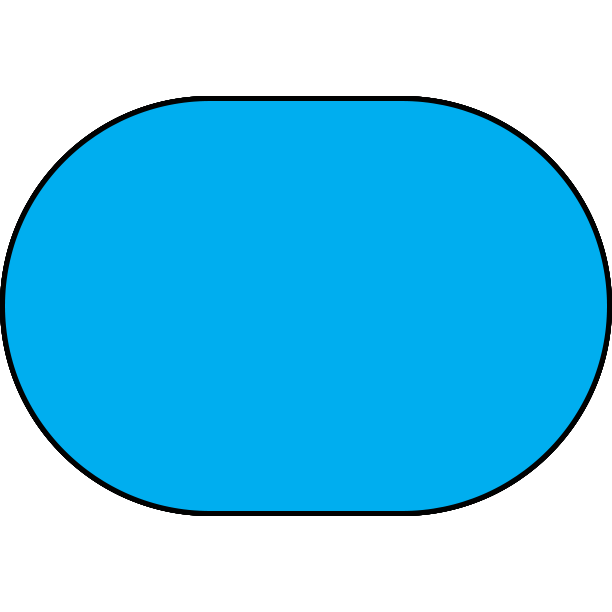
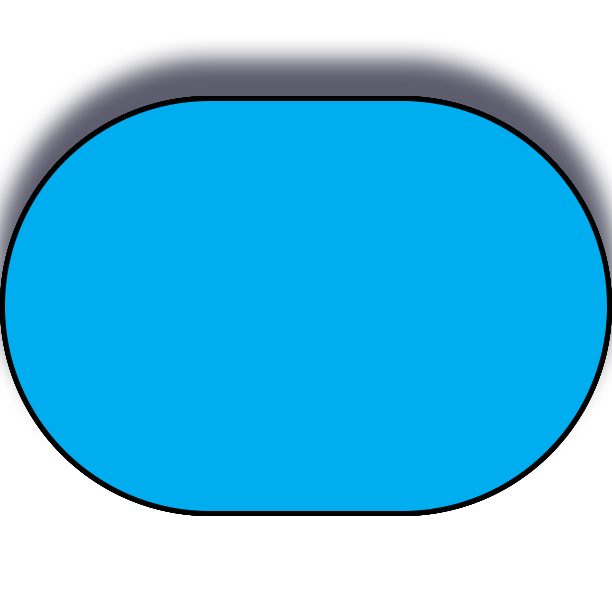
adds drop shadow to objects, updates instructions.js to accomodate colorful objects, and creates link.

diff --git a/src/js/core/instructions.js b/src/js/core/instructions.js
@@ -69,7 +69,7 @@ function loadInstrContent() {
         /* ind0 */ '<p>Hello! Thank you for participating in our study. Please take a moment to adjust your seating so that you can comfortably watch the monitor and use the keyboard. Feel free to dim the lights as well.</p><p>Close the door or do whatever is necessary to <b>minimize disturbance during the experiment</b>. Please also take a moment to silence your phone so that you are not interrupted by any messages mid-experiment. Do <i>not</i> switch to any other tabs or windows until you are complete.</p>',
         /* ind1 */ `<p>In this experiment, you will see an image of two people wearing <b>striped shirts</b> flash on your screen.<p>Your task is to determine if the two people are wearing exactly the same shirt!</p><p> Below is an example of <b> shirts that are <i>not</i> identical</b>. Although the angle of the stripes are similar, they are not the same.</p><div style='text-align: center'><img src="${stimFolder}person_example_different.png" style="width: 300px;"/></div>`,
         /* ind2 */ `<p>Below is an example of <b> shirts that are identical</b>. Note that the angle of the stripes are <i>exactly</i> the same.</p><div style='text-align: center'><img src="${stimFolder}person_example_same.png" style="width: 300px;"/></div>`,
-        /* ind3 */ `<p>To make it more difficult, we've placed the two people in striped shirts in a room full of other people with different color shirts. People in the room may appear at different times.</p><div></div><p>For this experiment, though, <b>you should only care about the people with yellow striped shirts.</b></p><p>When you think the two people are wearing the <i>same</i> shirt, press the <b>f key</b>. When you think the two people are <i>not</i> wearing the same shirt, press the <b>j key.</b></p>`,
+        /* ind3 */ `<p>To make it more difficult, we've placed the two people in striped shirts in a room full of other people with different color shirts and different colorful things. People in the room may appear at different times.</p><div></div><p>For this experiment, though, <b>you should only care about the people with yellow striped shirts.</b></p><p>When you think the two people are wearing the <i>same</i> shirt, press the <b>f key</b>. When you think the two people are <i>not</i> wearing the same shirt, press the <b>j key.</b></p>`,
         /* ind4 */ `<p>Sometimes, you may be unsure of your answer. This is okay, since the task is designed to be tricky! In times like this, just give it your <b>best guess</b>, as we are interested in your <i>gut intuition</i>.</p><p>Please do your very best to remain as focused and attentive as possible, even at the end of the experiment. We know it is very difficult to stay focused for so long, especially when you are doing the same thing over and over. But remember, the experiment will be all over in less than ${String(estTotalRunTime)} minutes. Press the button below to begin.`,
     ];
 
